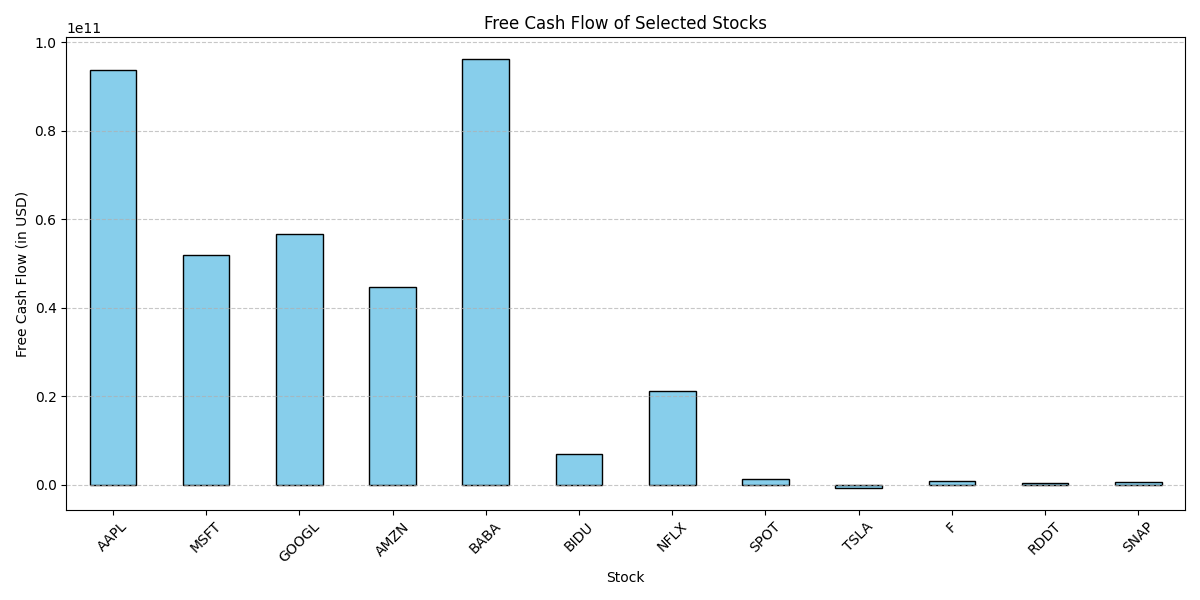
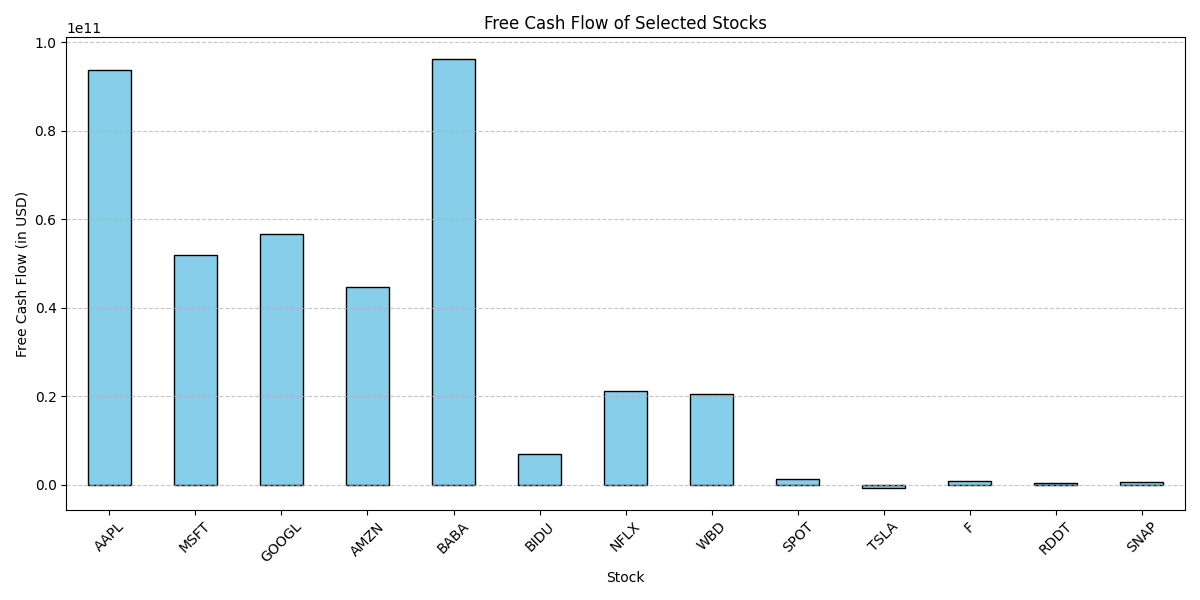
checkpoint before converting cny to usd

diff --git a/Analysis.py b/Analysis.py
@@ -8,10 +8,15 @@ def getStockInfo(ticker):
     stock = yf.Ticker(ticker)   
     
     stockInfo = stock.info
+
+
     try:
+            
+       
         stockData = {
             "Market Cap": stockInfo["marketCap"],
             "Free Cash Flow": stockInfo["freeCashflow"],    
+            "Free Cash Flow to Debt": stockInfo["freeCashflow"] / stockInfo["totalDebt"] if stockInfo["totalDebt"] != 0 else 0,
             "Net Income": stockInfo["netIncomeToCommon"],
             "Total Debt": stockInfo["totalDebt"],
             "Current Price": stockInfo["currentPrice"],
@@ -45,7 +50,7 @@ def plotData(stockDf, passedVal):
     
 def main():
     # Create a Stock object
-    stocks = ["AAPL", "MSFT", "GOOGL", "AMZN", "BABA", "BIDU", "NFLX", "SPOT", "TSLA", "F", "RDDT", "SNAP"]
+    stocks = ["AAPL", "MSFT", "GOOGL", "AMZN", "BABA", "BIDU", "NFLX", "WBD", "SPOT", "TSLA", "F", "RDDT", "SNAP"]
     stockData= {}
     for stock in stocks:
         stockData[stock] = getStockInfo(stock)
@@ -56,6 +61,8 @@ def main():
     plotData(stockDf, "Free Cash Flow")
     plotData(stockDf, "Net Income")
     plotData(stockDf, "Total Debt")
+    plotData(stockDf, "Free Cash Flow to Debt")
+
 
 
 
